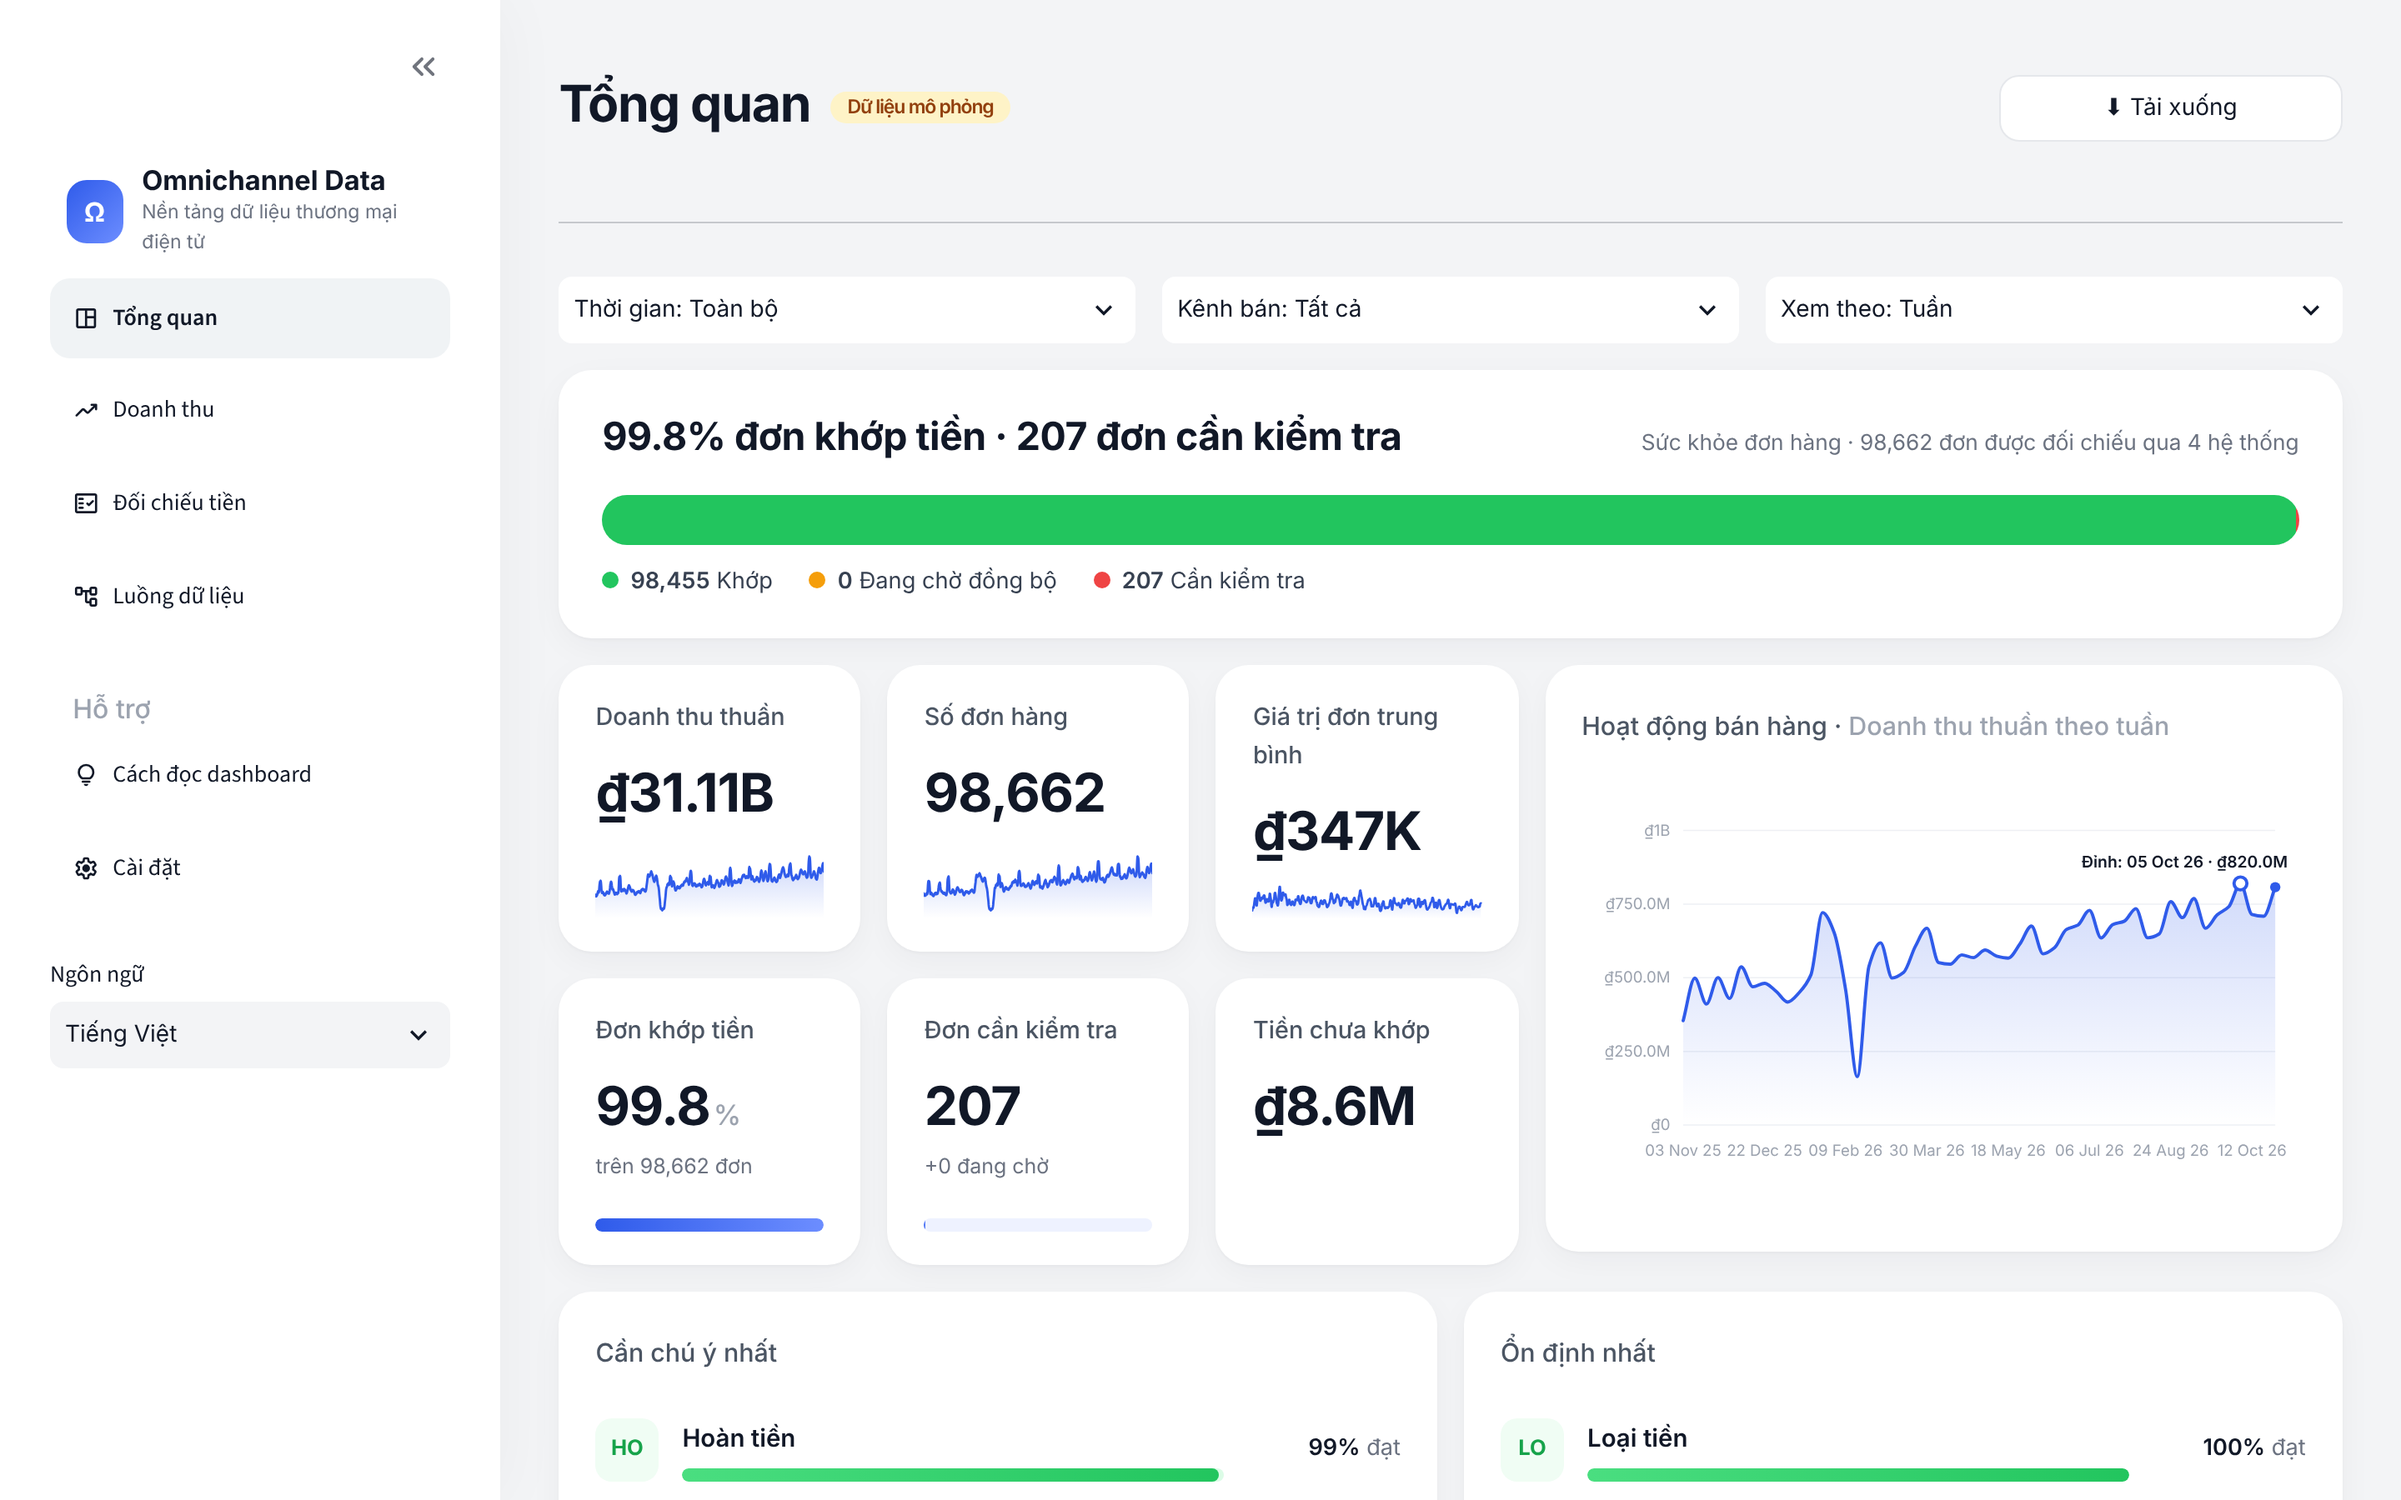
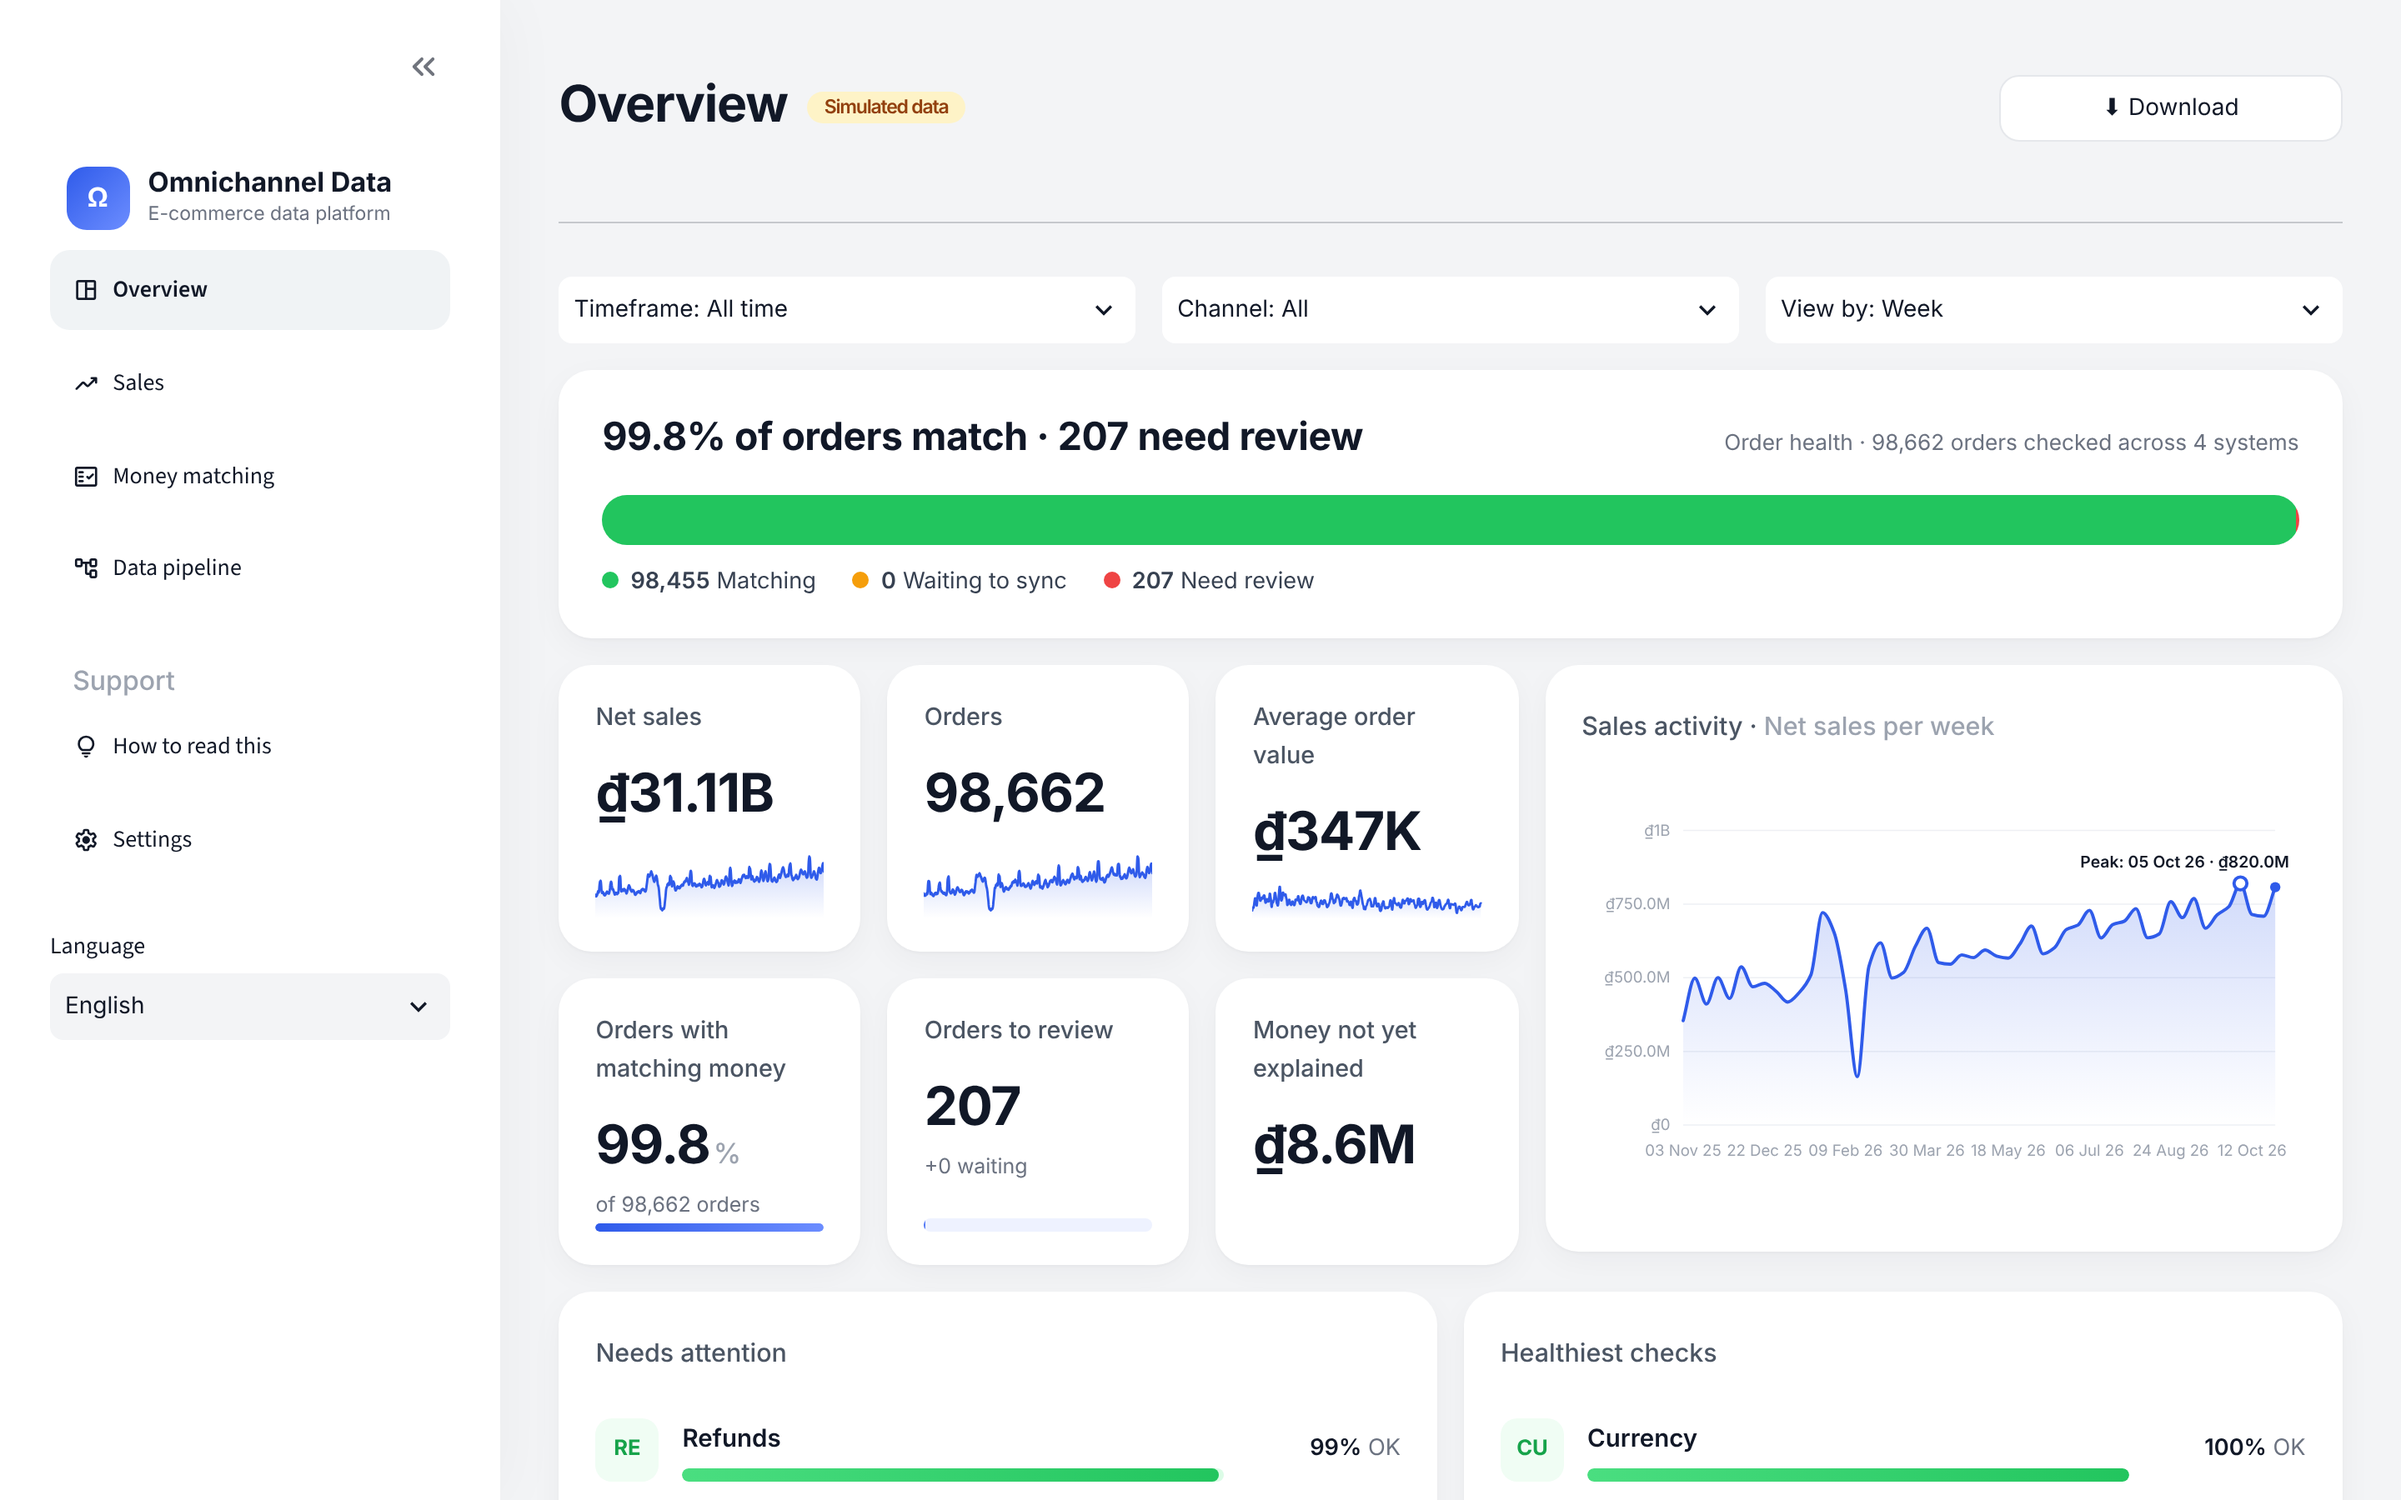
Dashboard: English by default (DASH_LANG=vi for Vietnamese), wider axis margin for long labels; English README screenshots

diff --git a/streamlit_app/dash_ui.py b/streamlit_app/dash_ui.py
@@ -182,8 +182,9 @@ def bar_chart(labels: list[str], values: list[float], width: int = 560, height: 
     n = len(values)
     if n == 0:
         return ""
-    left, bottom, top = 46, 30, 12
+    bottom, top = 30, 12
     ymax = nice_max(max(values))
+    left = max(46, 7.5 * max(len(fmt(ymax * i / 4)) for i in range(5)) + 16)      # room for long axis labels such as 100,000
     plot_h, plot_w = height - bottom - top, width - left - 20
     slot = plot_w / n
     bw = max(4, min(18, slot * 0.55))

diff --git a/streamlit_app/platform_dashboard.py b/streamlit_app/platform_dashboard.py
@@ -31,7 +31,7 @@ SOURCE_LABEL = os.getenv("DASH_SOURCE_LABEL", "")
 CHIP_KEY, NOTE_KEY = ("sim_chip", "sim_note") if SIMULATED else ("live_chip", "live_note")
 
 if "lang" not in st.session_state:
-    st.session_state["lang"] = "vi"
+    st.session_state["lang"] = os.getenv("DASH_LANG", "en") if os.getenv("DASH_LANG", "en") in LANGS else "en"   # English by default, DASH_LANG=vi for Vietnamese
 lang = st.session_state["lang"]
 tr = make_tr(lang)
 
